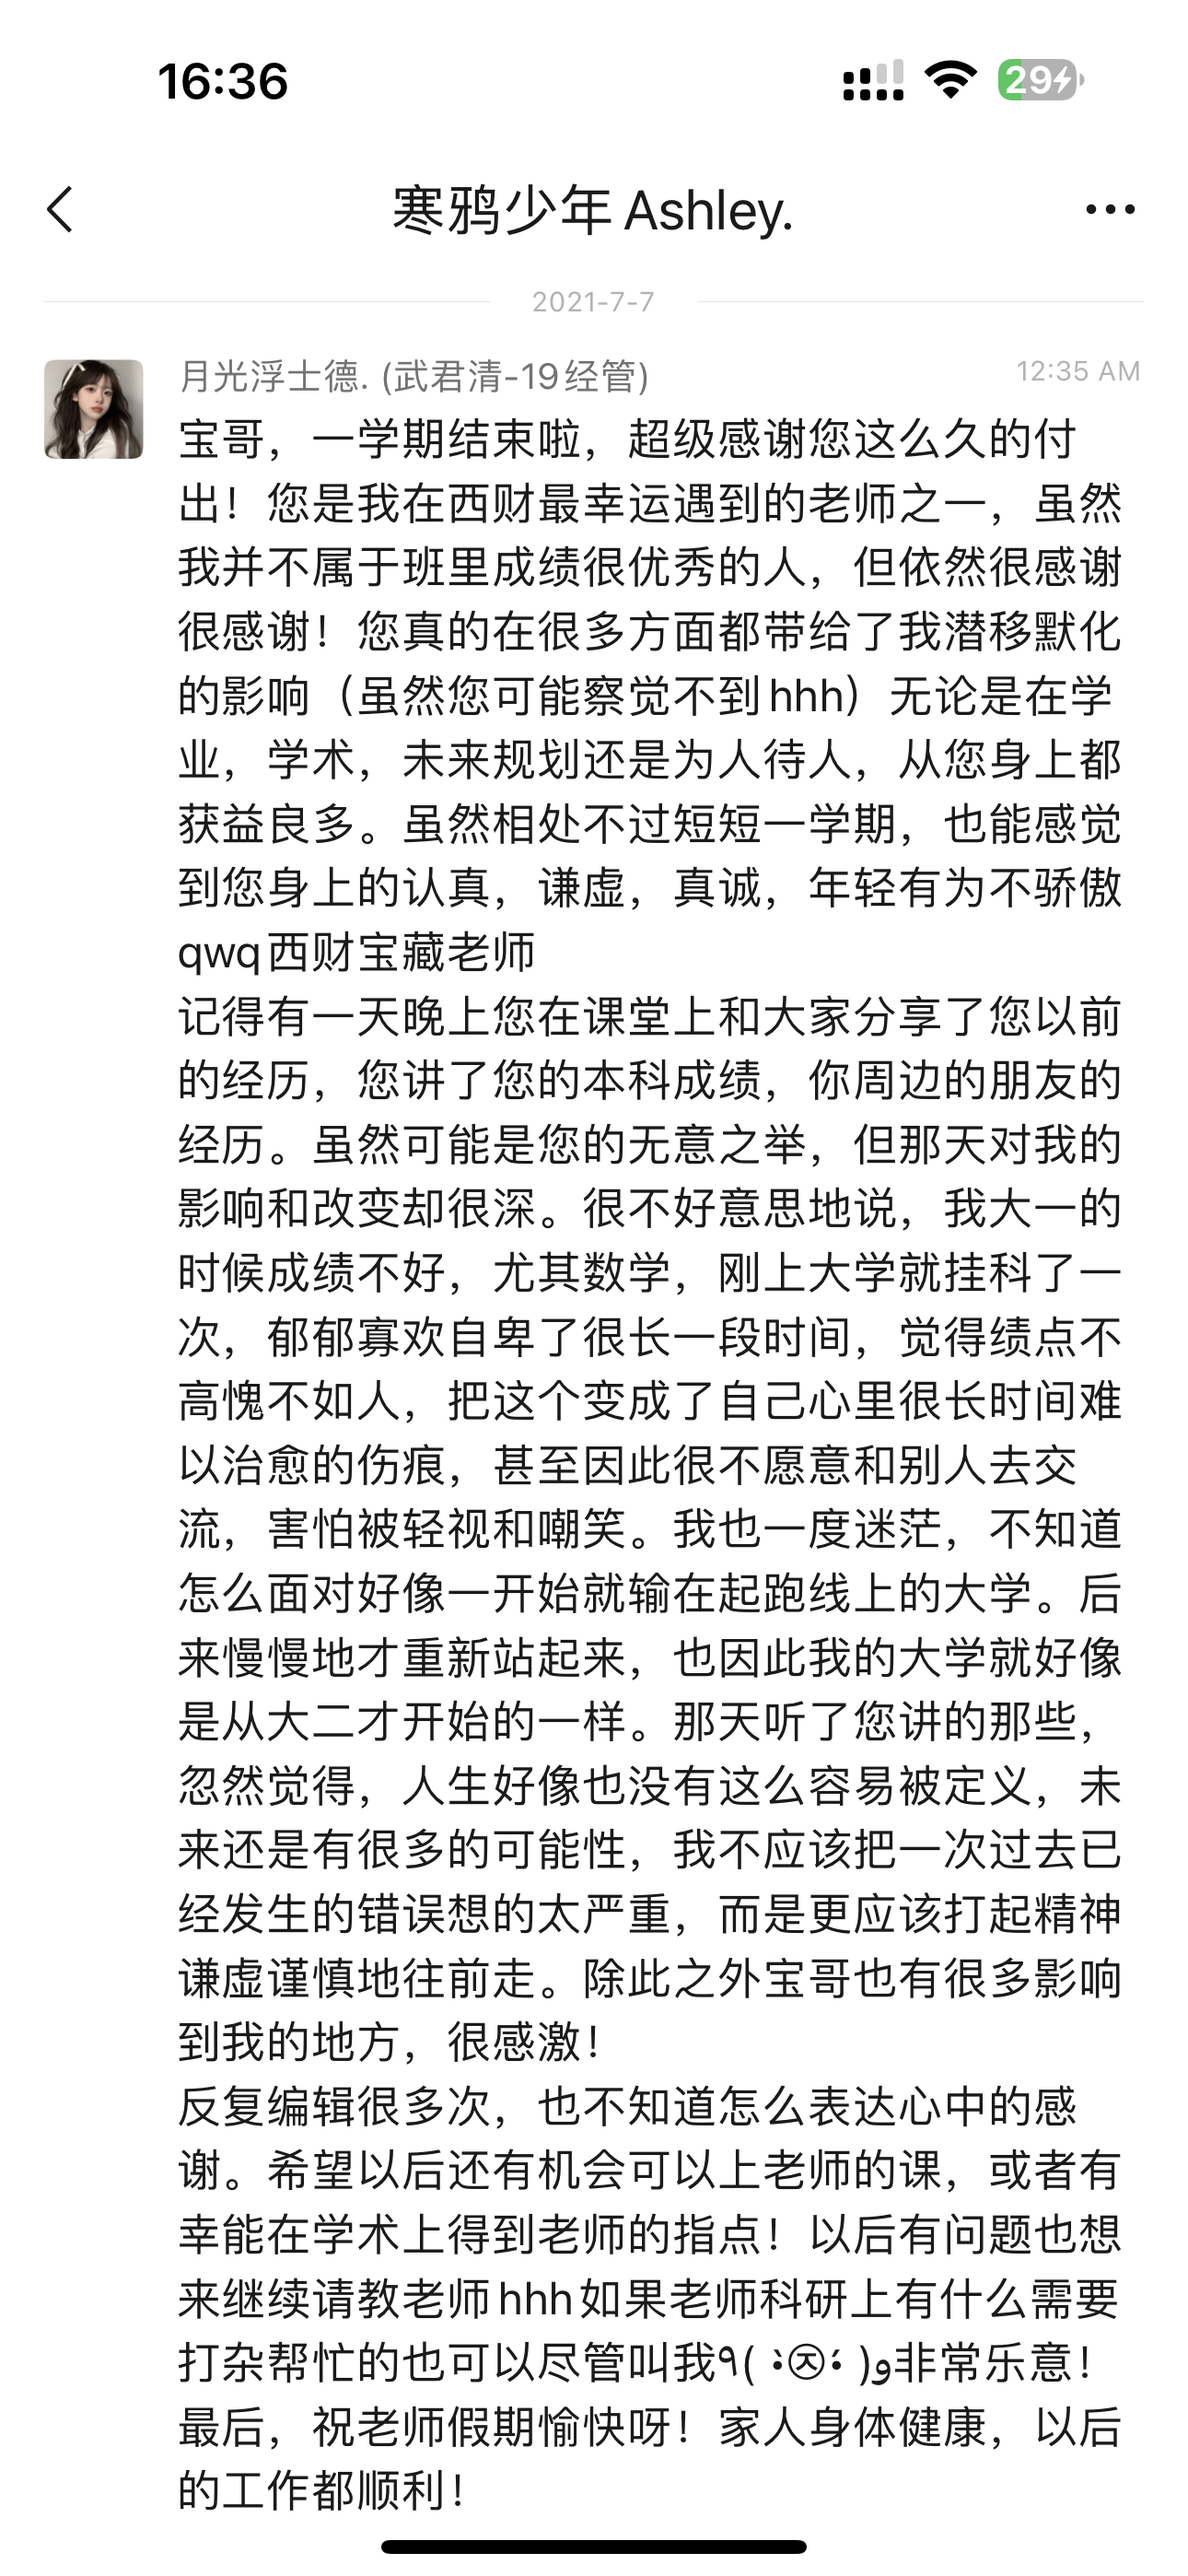
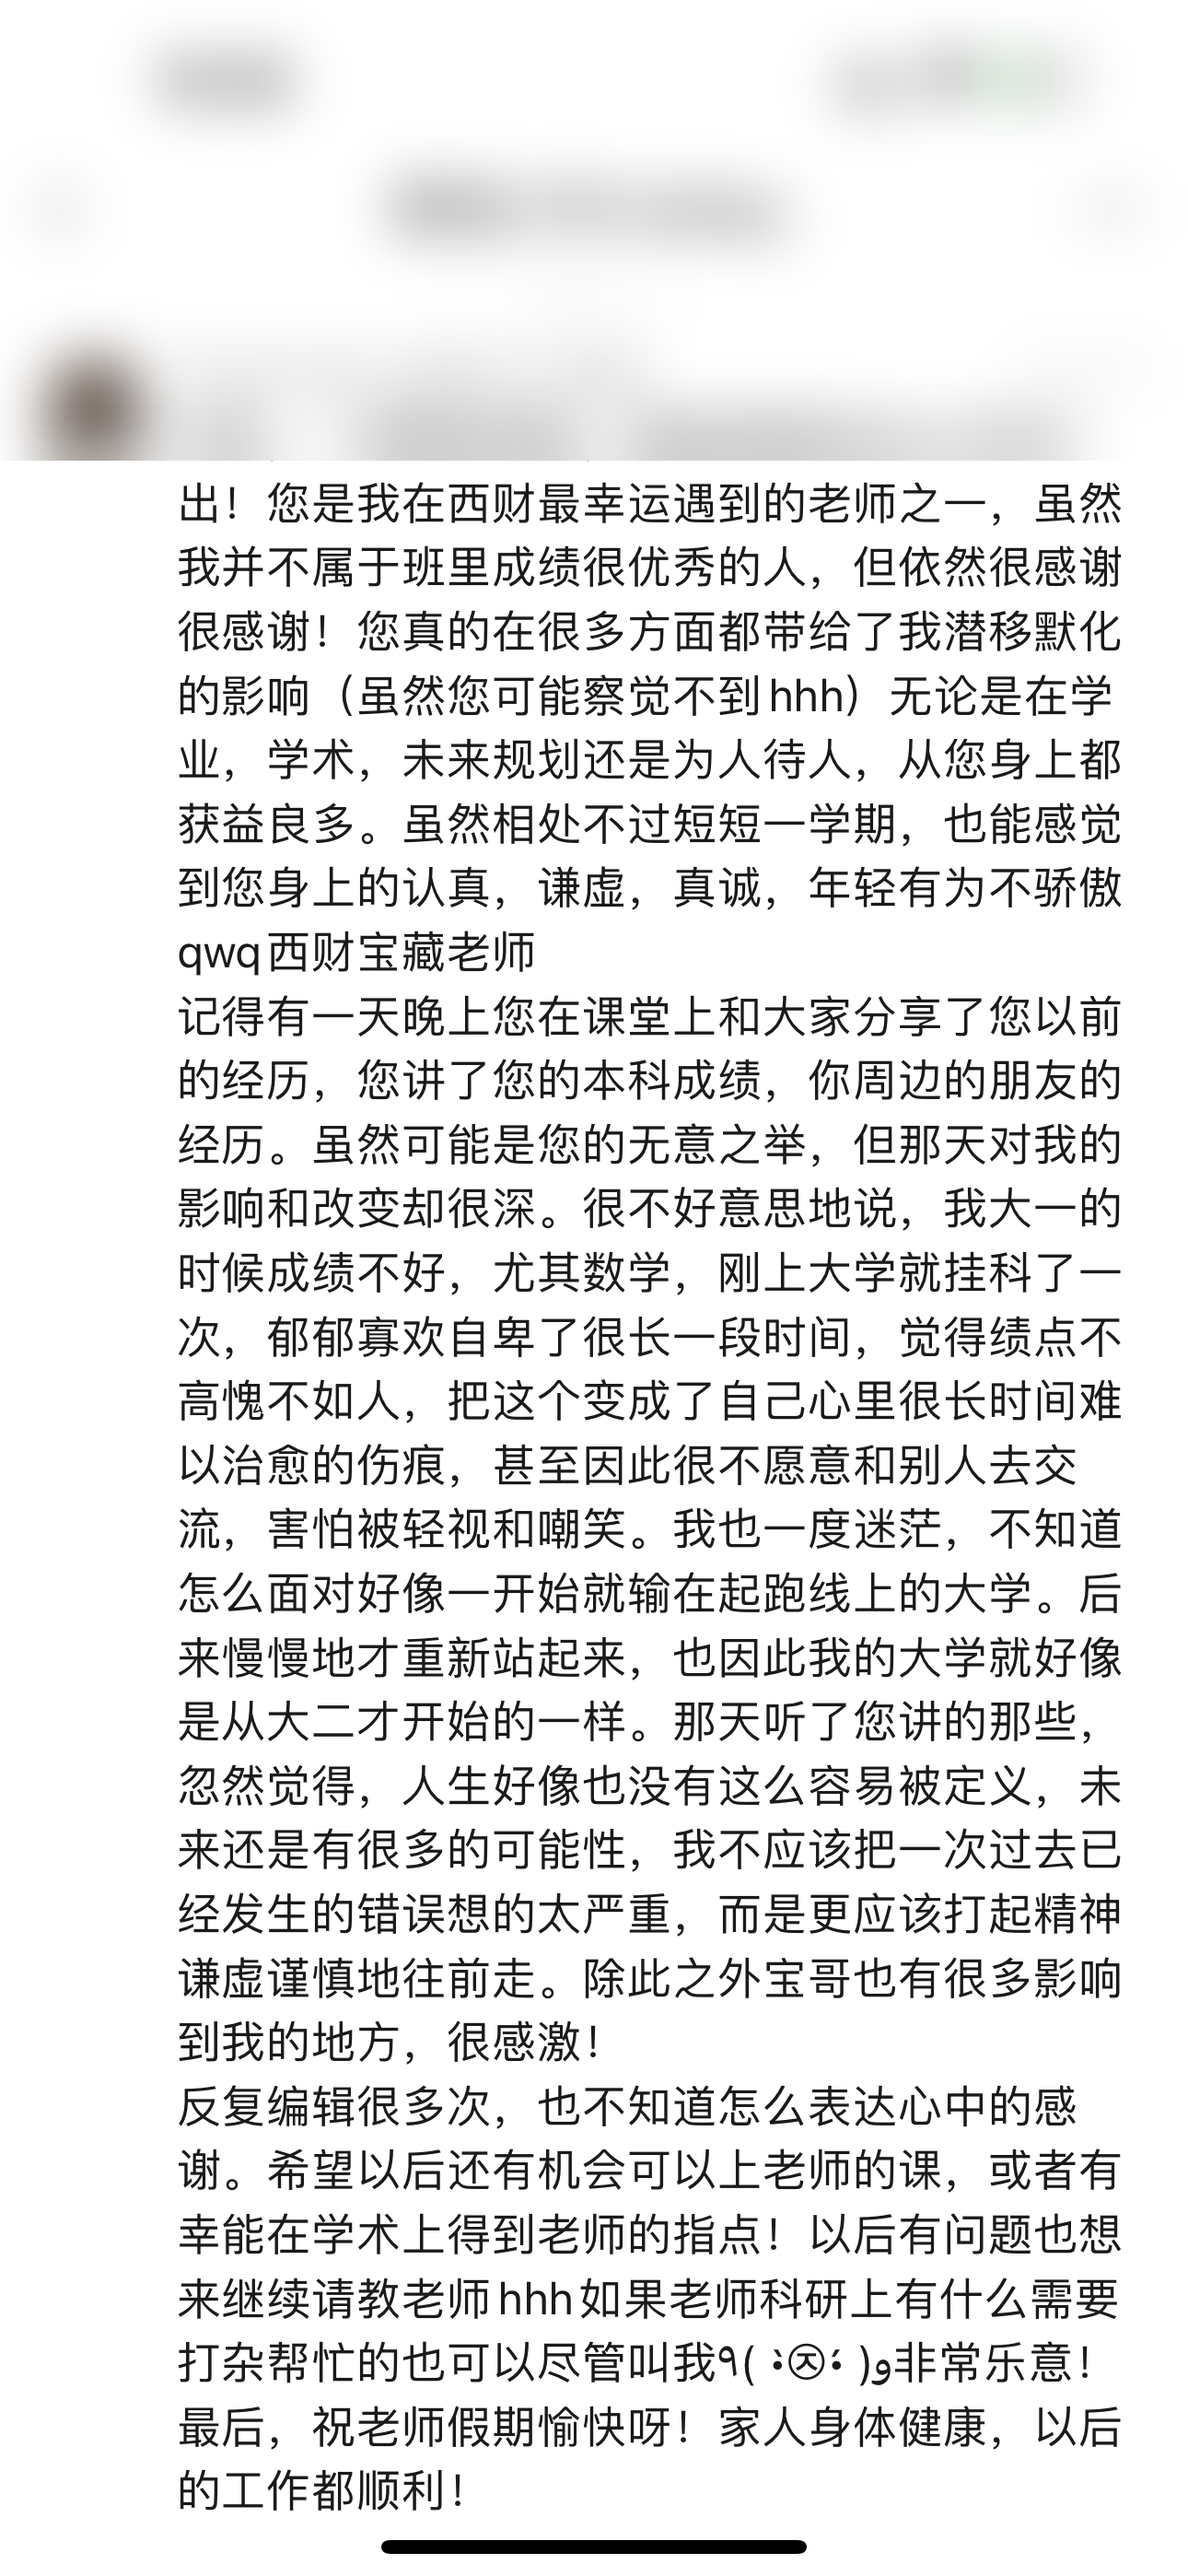
Polish Former Students landing: privacy, spacing, timing, quote style
- Blur sender name and avatar strip in comment2/3/4 screenshots for
  student privacy.
- Drop student names from carousel slide headings and image alt text;
  all four are now labelled generically as "A note from a student".
- Sidebar: remove the Overview entry (the "Former Students" title now
  links to the landing page instead), and tighten row spacing.
- Rotating hero quote: bold, wrapped in typographic quotes, sits
  higher on the page.
- Carousel: shorter slide/image heights so the whole card fits in
  the viewport without vertical scrolling.
- Slide interval bumped from 6s to 10s so translations are readable.

diff --git a/_sass/former_students.scss b/_sass/former_students.scss
@@ -20,8 +20,17 @@
   letter-spacing: 0.08em;
   font-size: 0.72em;
   color: #999;
-  margin-bottom: 12px;
+  margin-bottom: 8px;
   font-weight: 600;
+}
+.fs-sidenav-title a {
+  color: inherit;
+  text-decoration: none;
+  transition: color 0.15s;
+}
+.fs-sidenav-title a:hover {
+  color: darkslateblue;
+  text-decoration: none;
 }
 .fs-sidenav ul {
   list-style: none !important;
@@ -38,7 +47,7 @@
   color: #666;
   text-decoration: none;
   display: block;
-  padding: 6px 0 6px 4px;
+  padding: 2px 0 2px 4px;
   transition: color 0.15s;
   border-left: 3px solid transparent;
   margin-left: -19px;
@@ -94,8 +103,8 @@
 /* ---------- Landing hero (rotating quote) ---------- */
 .fs-hero {
   text-align: center;
-  margin: 30px 0 20px;
-  min-height: 130px;
+  margin: 8px 0 12px;
+  min-height: 110px;
   display: flex;
   align-items: center;
   justify-content: center;
@@ -104,12 +113,13 @@
   border: none !important;
   border-left: none !important;
   font-style: italic;
-  font-size: 1.15em;
-  line-height: 1.55;
-  color: #333;
+  font-weight: 600;
+  font-size: 1.18em;
+  line-height: 1.5;
+  color: #222;
   padding: 0 20px !important;
   margin: 0 auto !important;
-  max-width: 720px;
+  max-width: 760px;
   transition: opacity 0.6s ease;
 }
 .fs-hero blockquote.fade {
@@ -117,16 +127,17 @@
 }
 .fs-hero cite {
   display: block;
-  margin-top: 10px;
+  margin-top: 8px;
   font-size: 0.82em;
   color: #888;
   font-style: normal;
+  font-weight: 400;
 }
 
 /* ---------- Image carousel ---------- */
 .fs-carousel {
   position: relative;
-  margin: 20px 0 30px;
+  margin: 8px 0 20px;
   border-radius: 8px;
   overflow: hidden;
   background: #fafafa;
@@ -141,32 +152,32 @@
   min-width: 100%;
   box-sizing: border-box;
   display: grid;
-  grid-template-columns: minmax(0, 1fr) minmax(0, 1.15fr);
+  grid-template-columns: minmax(0, 0.85fr) minmax(0, 1.3fr);
   gap: 24px;
-  padding: 24px 60px 44px;
+  padding: 16px 56px 36px;
   align-items: start;
 }
 .fs-slide.fs-slide-photo {
   grid-template-columns: 1fr;
-  padding: 24px 60px 44px;
+  padding: 16px 56px 36px;
 }
 .fs-slide-image {
   text-align: center;
 }
 .fs-slide-image img {
   max-width: 100%;
-  max-height: 480px;
+  max-height: 380px;
   border-radius: 6px;
   box-shadow: 0 2px 10px rgba(0,0,0,0.12);
 }
 .fs-slide.fs-slide-photo .fs-slide-image img {
-  max-height: 520px;
+  max-height: 420px;
 }
 .fs-slide-text {
-  font-size: 0.9em;
-  line-height: 1.55;
+  font-size: 0.88em;
+  line-height: 1.5;
   color: #333;
-  max-height: 480px;
+  max-height: 380px;
   overflow-y: auto;
   padding-right: 6px;
 }

diff --git a/former_students.md b/former_students.md
@@ -6,23 +6,21 @@ description: teaching philosophy, student notes, and advising records.
 ---
 
 <nav class="fs-sidenav" aria-label="Former students sections">
-  <div class="fs-sidenav-title">Former students</div>
+  <div class="fs-sidenav-title"><a href="/former_students">Former students</a></div>
   <ul>
-    <li class="active"><a href="/former_students">Overview</a></li>
     <li><a href="/former_students/graduate">Graduate Advising</a></li>
     <li><a href="/former_students/undergraduate">Undergraduate Advising</a></li>
   </ul>
 </nav>
 
 <div class="fs-mobile-nav">
-  <a href="/former_students" class="active">Overview</a>
-  <a href="/former_students/graduate">Graduate</a>
-  <a href="/former_students/undergraduate">Undergraduate</a>
+  <a href="/former_students/graduate">Graduate Advising</a>
+  <a href="/former_students/undergraduate">Undergraduate Advising</a>
 </div>
 
 <div class="fs-hero">
   <blockquote id="fs-quote">
-    <span id="fs-quote-text">Students don't care how much you know until they know how much you care.</span>
+    &ldquo;<span id="fs-quote-text">Students don't care how much you know until they know how much you care.</span>&rdquo;
     <cite id="fs-quote-cite">— John C. Maxwell</cite>
   </blockquote>
 </div>
@@ -45,6 +43,7 @@ description: teaching philosophy, student notes, and advising records.
       </div>
       <div class="fs-slide-text">
         <h4>A note from a student — English translation</h4>
+
         <p>To Bao ge,</p>
         <p>How lucky I was to meet you this semester!</p>
         <p>Although my exam may not have gone as well as I'd hoped, I could feel that I gained a lot — I've developed an initial understanding of econometrics and built a certain framework. I really like your teaching style: not just constrained by exams, but <em>intuitively</em> letting us truly understand the meaning of every concept.</p>
@@ -56,10 +55,10 @@ description: teaching philosophy, student notes, and advising records.
     <!-- Slide 3: comment 2 (Wu Junqing) -->
     <div class="fs-slide">
       <div class="fs-slide-image">
-        <img src="/comment2.PNG" alt="Message from Wu Junqing" loading="lazy">
+        <img src="/comment2.PNG" alt="Note from a student" loading="lazy">
       </div>
       <div class="fs-slide-text">
-        <h4>Wu, Junqing — RIEM Class of 2019 · English translation</h4>
+        <h4>A note from a student — English translation</h4>
         <p>Bao ge, the semester is over — thank you so much for everything you've done for us! You are one of the teachers I've been luckiest to meet at SWUFE. Although I'm not among the top students in class, I'm still deeply grateful. You've influenced me in so many ways — perhaps without even realizing it — in academics, in research, in future planning, in how to treat people. Even in one short semester, I could feel your seriousness, humility, sincerity, and quiet confidence. A true "treasure teacher" of SWUFE.</p>
         <p>I remember one evening you shared your past experiences with the class — your undergraduate grades, your friends' journeys. It might have been unintentional, but it had a very deep impact on me. My freshman year didn't go well, especially in math — I failed a course right after starting university. For a long time I felt down and inferior, thinking my GPA was too low, and this became a wound that was hard to heal. I even became reluctant to socialize, afraid of being looked down on. I felt lost, not knowing how to face a college experience where I'd already lost at the starting line. Slowly I got back up — my college life felt like it truly began in sophomore year.</p>
         <p>Hearing what you said that evening, I suddenly felt that life isn't so easily defined — the future still holds many possibilities. I shouldn't take one past mistake too seriously. Instead, I should move forward with spirit and humility.</p>
@@ -71,10 +70,10 @@ description: teaching philosophy, student notes, and advising records.
     <!-- Slide 4: comment 3 (Chen Boyuan, now MS at Boston University) -->
     <div class="fs-slide">
       <div class="fs-slide-image">
-        <img src="/comment3.jpg" alt="Message from Chen Boyuan" loading="lazy">
+        <img src="/comment3.jpg" alt="Note from a student" loading="lazy">
       </div>
       <div class="fs-slide-text">
-        <h4>Chen, Boyuan — RIEM Class of 2019 · English translation</h4>
+        <h4>A note from a student — English translation</h4>
         <p>Bao ge, now that the final exam is over, I want to sincerely say thank you for everything you did for us this semester. You are not just a very, very good researcher, but also a very, very good teacher! In my two years at SWUFE, you are one of the few teachers I've felt truly nurtured students as if they were your own children — someone I genuinely respect.</p>
         <p>I may forget some econometrics questions in the future, but I'll never forget you streaming live before the exam, answering our questions late into the night. I'm not a naturally gifted student, and my learning ability isn't strong, but you tolerated me asking simple, low-value questions and patiently answered them one by one. I'm really, really moved and grateful.</p>
         <p>You also let me feel some of the beauty of econometrics — you made me genuinely interested in the topic and willing to put in effort to study and think about it. I may forget some technical knowledge over time, but I won't forget that you taught us to look for the <em>intuition</em> and <em>motivation</em> behind every theory, to develop real business sense, and to face life actively.</p>
@@ -86,11 +85,11 @@ description: teaching philosophy, student notes, and advising records.
     <!-- Slide 5: comment 4 (Zeng Qiguo, went on to Birmingham) -->
     <div class="fs-slide">
       <div class="fs-slide-image">
-        <img src="/comment4.jpg" alt="Message from Zeng Qiguo" loading="lazy">
+        <img src="/comment4.jpg" alt="Note from a student" loading="lazy">
       </div>
       <div class="fs-slide-text">
-        <h4>Zeng, Qiguo — RIEM Class of 2019 · English translation</h4>
-        <p>Good evening Bao ge, this is Zeng Qiguo. I meant to message you right after the exam, but I was busy writing a paper — sorry for the delay!</p>
+        <h4>A note from a student — English translation</h4>
+        <p>Good evening Bao ge! I meant to message you right after the exam, but I was busy writing a paper — sorry for the delay!</p>
         <p>I'm really happy I got to take your class this semester. You often felt you hadn't explained things clearly, but honestly the fault was ours — I'm sorry we made you spend so much time explaining the same things again and again. You were incredibly patient — sometimes we felt embarrassed to keep asking 😬.</p>
         <p>I love your teaching style and analytical approach — clear and intuitive. We joked that we were lucky to have you and Prof. Chen teaching us; it saved us a huge amount of reading time.</p>
         <p>Next semester I'll be leaving for Birmingham, so the next time I see you might not be until senior graduation. So I wanted to tell you now, while you probably still remember me — we really are grateful for you teaching us this semester. My exam still didn't go well, but I really feel I learned a lot!</p>
@@ -150,7 +149,7 @@ description: teaching philosophy, student notes, and advising records.
   var n = slides.length;
   var idx = 0;
   var timer = null;
-  var INTERVAL = 6000;
+  var INTERVAL = 10000;
 
   // Build dots
   var dotButtons = [];

diff --git a/former_students/undergraduate.md b/former_students/undergraduate.md
@@ -27,18 +27,16 @@ tr.y-first td { padding-top: 12px; }
 </style>
 
 <nav class="fs-sidenav" aria-label="Former students sections">
-  <div class="fs-sidenav-title">Former students</div>
+  <div class="fs-sidenav-title"><a href="/former_students">Former students</a></div>
   <ul>
-    <li><a href="/former_students">Overview</a></li>
     <li><a href="/former_students/graduate">Graduate Advising</a></li>
     <li class="active"><a href="/former_students/undergraduate">Undergraduate Advising</a></li>
   </ul>
 </nav>
 
 <div class="fs-mobile-nav">
-  <a href="/former_students">← Overview</a>
-  <a href="/former_students/graduate">Graduate</a>
-  <a href="/former_students/undergraduate" class="active">Undergraduate</a>
+  <a href="/former_students/graduate">Graduate Advising</a>
+  <a href="/former_students/undergraduate" class="active">Undergraduate Advising</a>
 </div>
 
 ## Undergraduate Advising

diff --git a/former_students/graduate.md b/former_students/graduate.md
@@ -24,18 +24,16 @@ table th:nth-of-type(4) { width: 44%; }
 </style>
 
 <nav class="fs-sidenav" aria-label="Former students sections">
-  <div class="fs-sidenav-title">Former students</div>
+  <div class="fs-sidenav-title"><a href="/former_students">Former students</a></div>
   <ul>
-    <li><a href="/former_students">Overview</a></li>
     <li class="active"><a href="/former_students/graduate">Graduate Advising</a></li>
     <li><a href="/former_students/undergraduate">Undergraduate Advising</a></li>
   </ul>
 </nav>
 
 <div class="fs-mobile-nav">
-  <a href="/former_students">← Overview</a>
-  <a href="/former_students/graduate" class="active">Graduate</a>
-  <a href="/former_students/undergraduate">Undergraduate</a>
+  <a href="/former_students/graduate" class="active">Graduate Advising</a>
+  <a href="/former_students/undergraduate">Undergraduate Advising</a>
 </div>
 
 ## Graduate Advising
